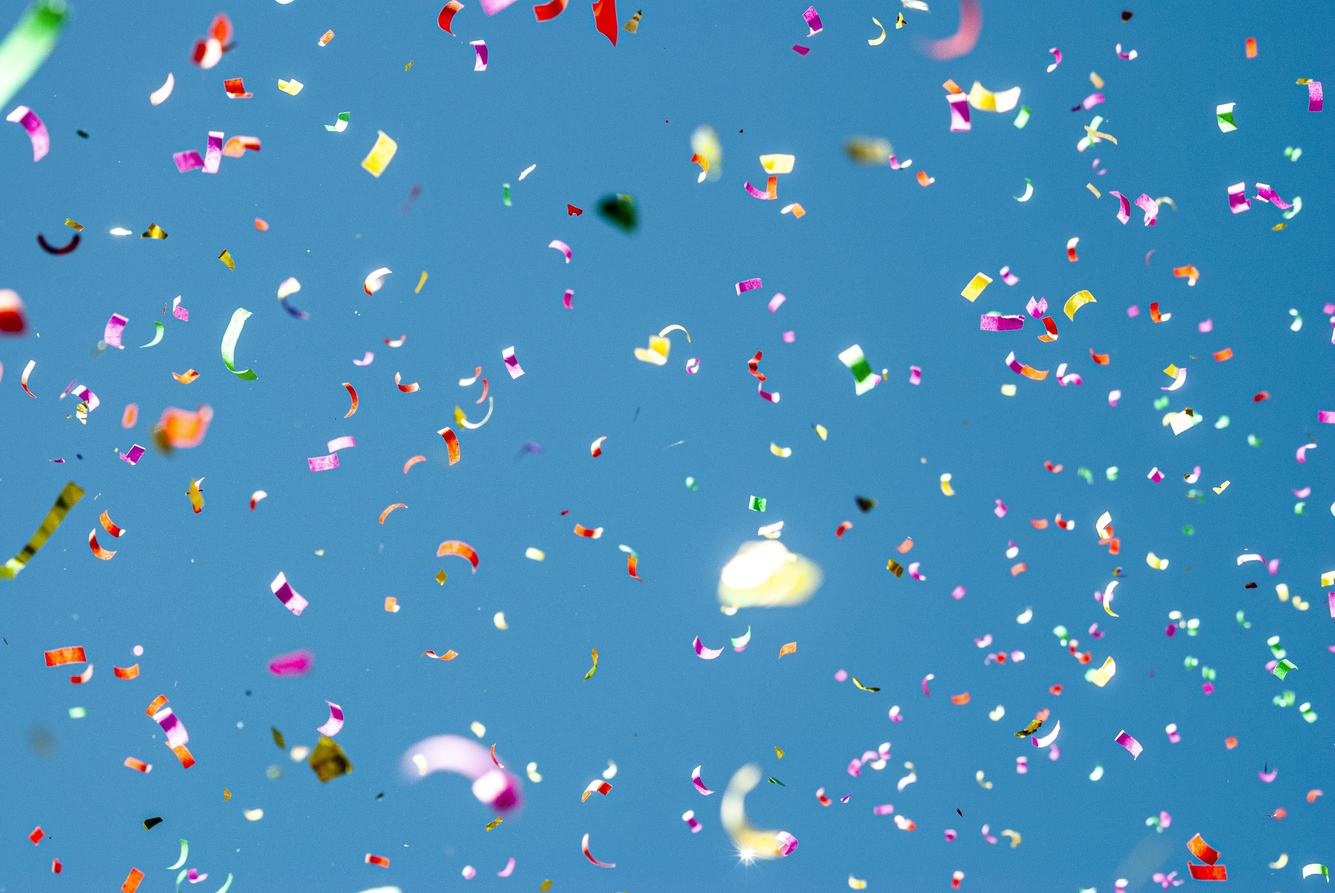
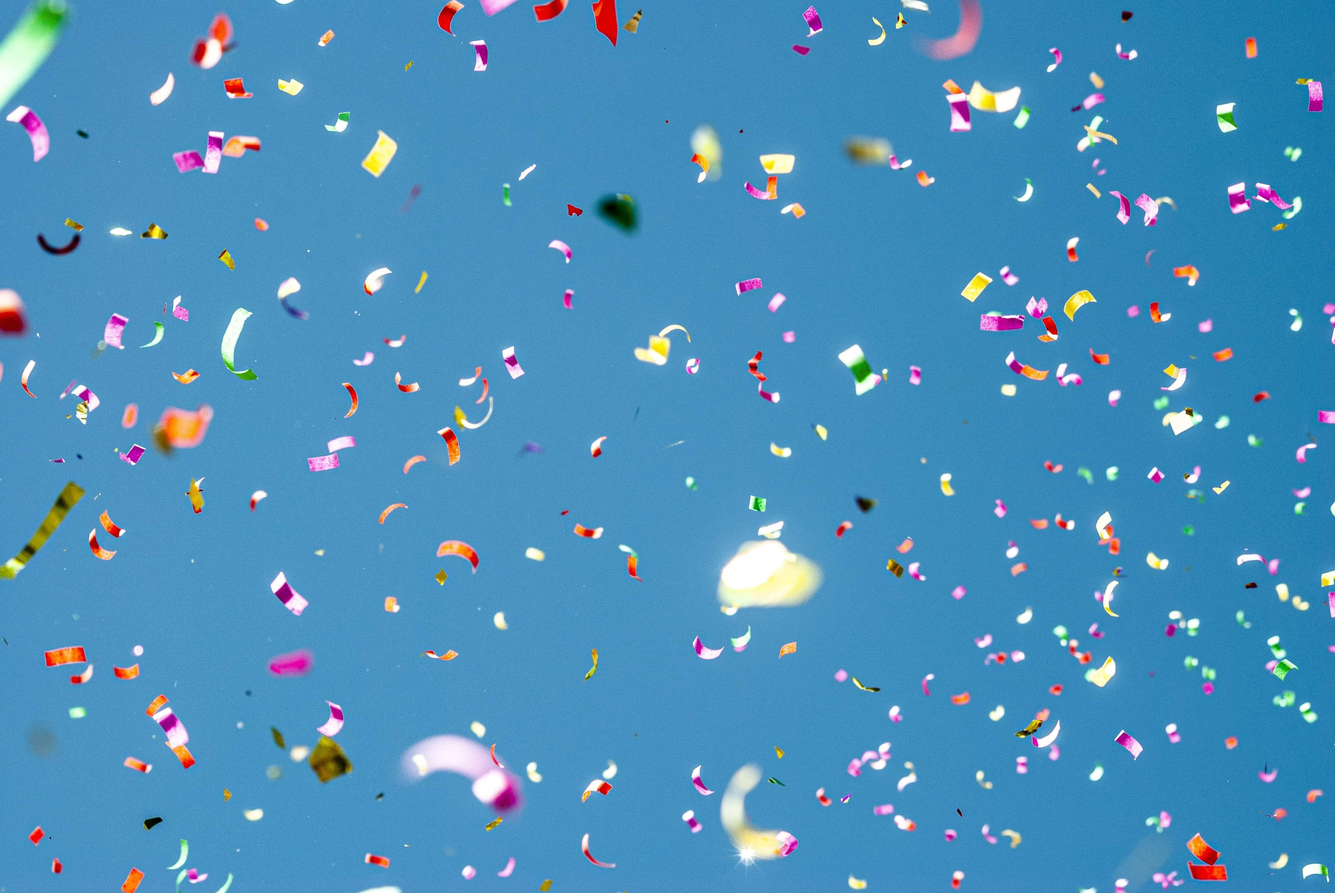
used instructor's compressor to compress image to smaller size for better animation

diff --git a/assets/js/app.js b/assets/js/app.js
@@ -42,7 +42,7 @@ document.getElementById('generate').addEventListener('click', function () {
 // Clear Button on Click Event to clear the buttons selected and the password picked
 document.getElementById('reset').addEventListener('click', function () {
   // sets variables back to empty Array's
-  var possibles = []
+  possibles = []
   var pOut = []
 
   // set all selections to false for local Storage
